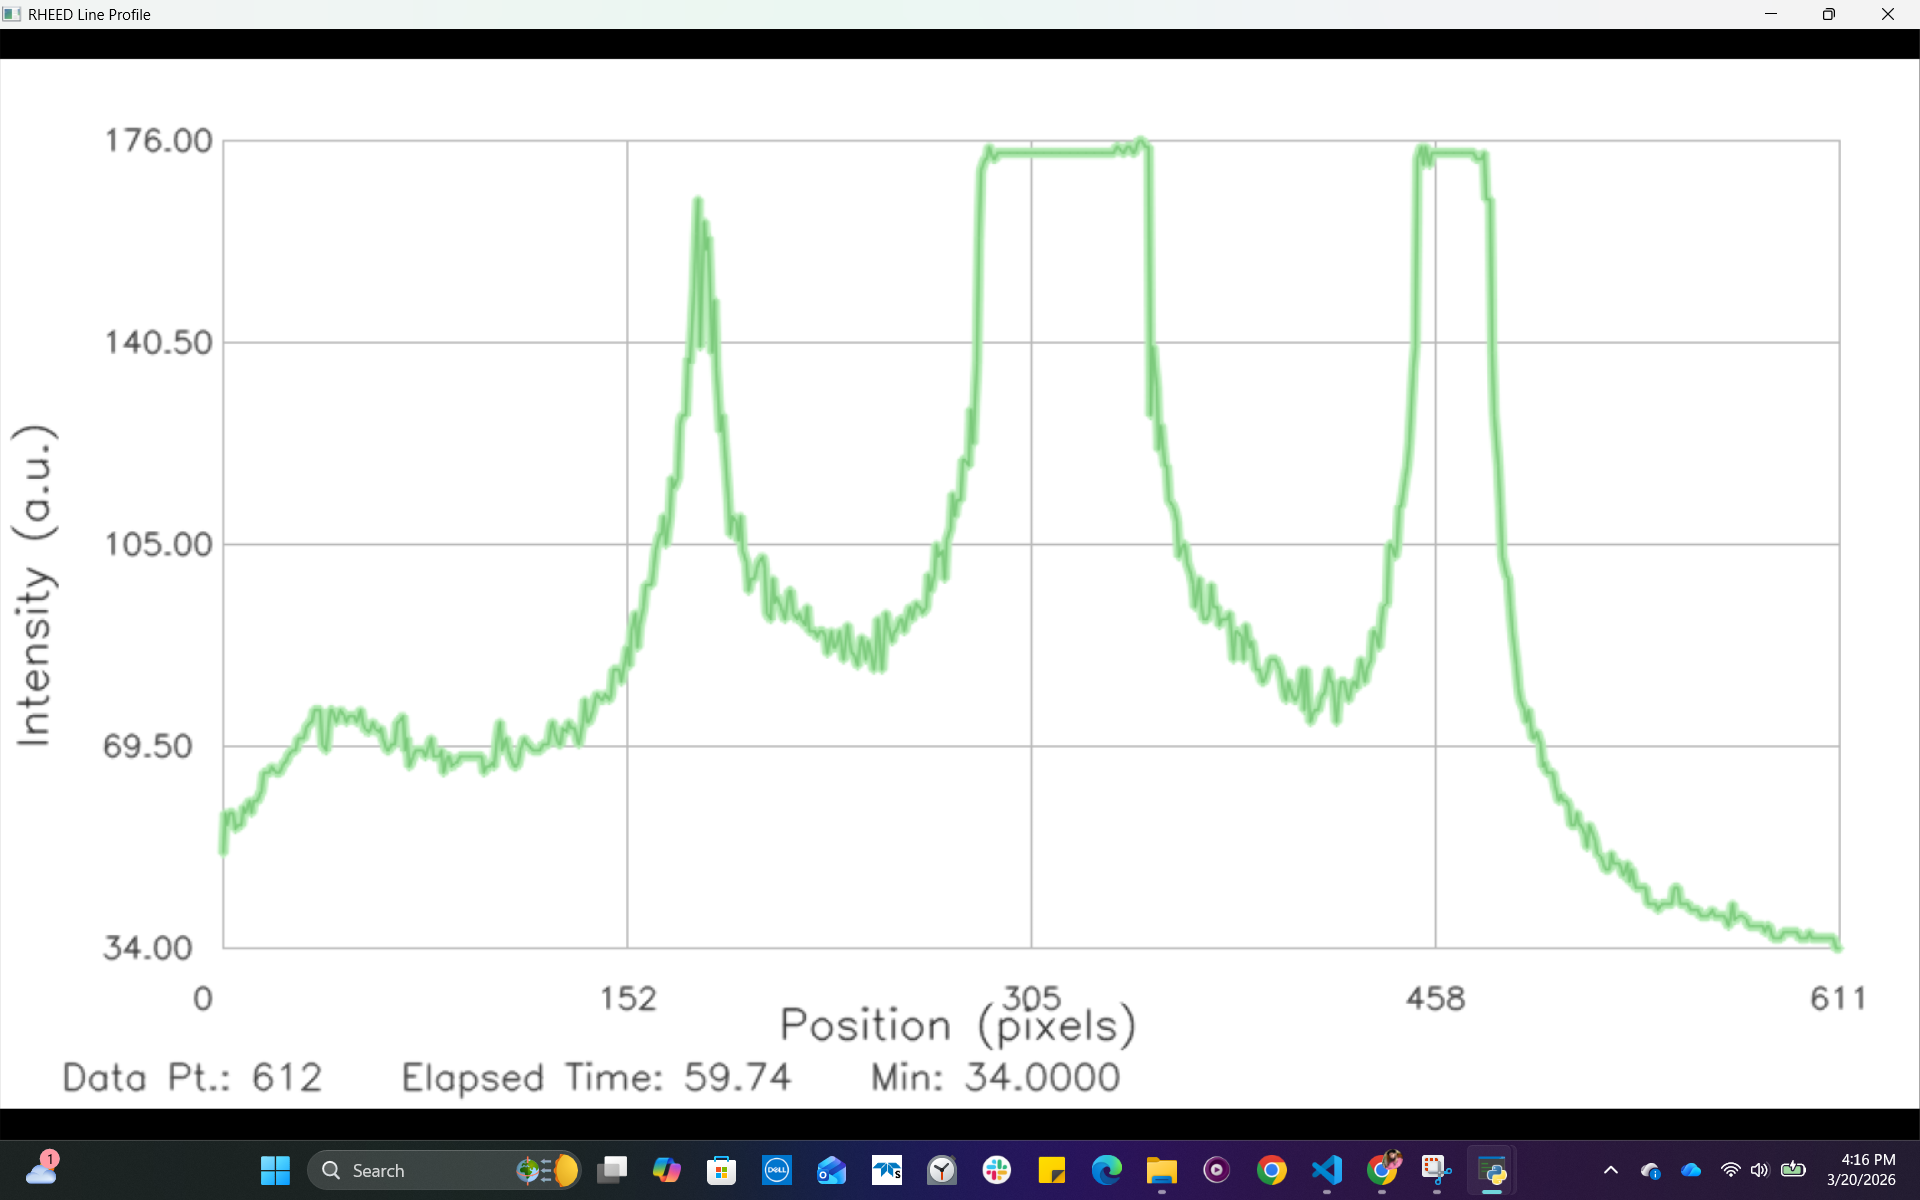
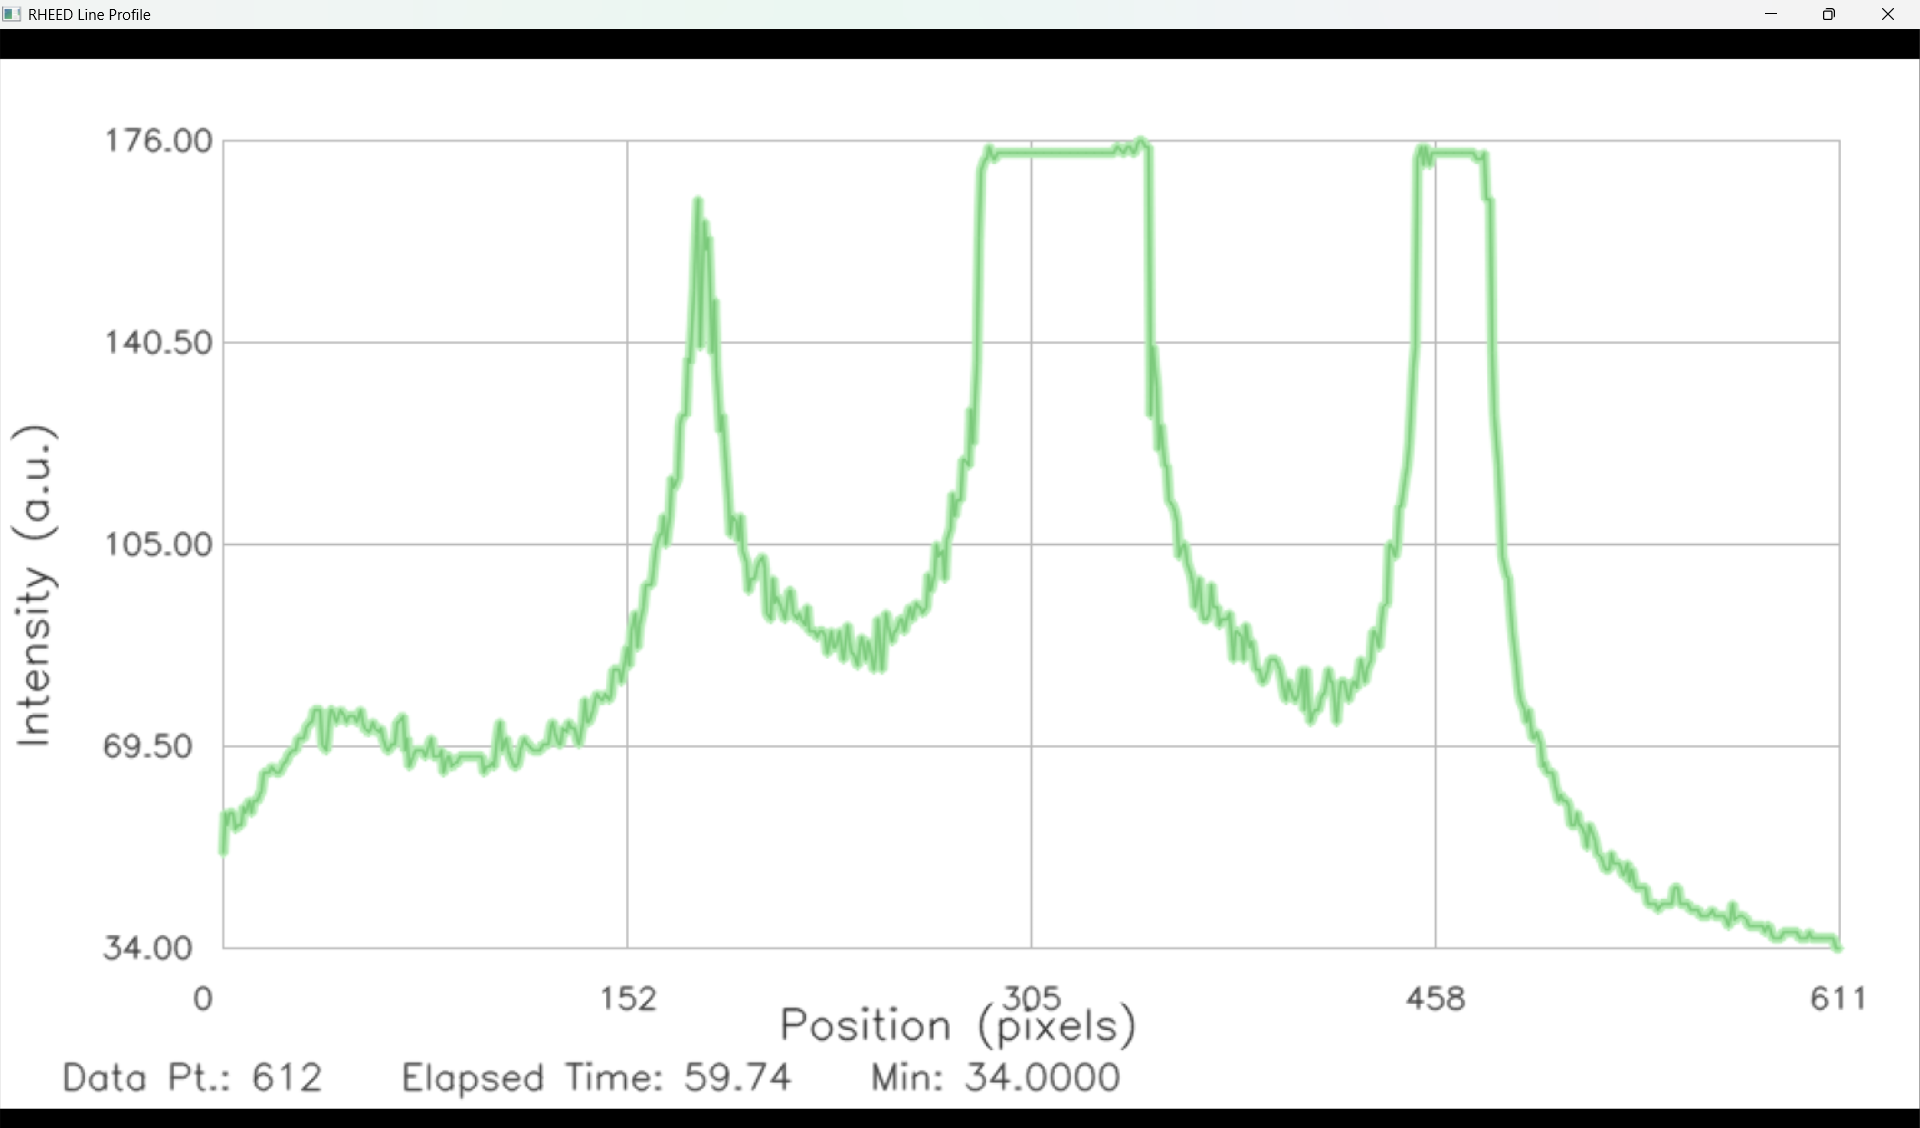
Update README and dashboard images

diff --git a/README.md b/README.md
@@ -126,7 +126,7 @@ Popout ROI monitor displaying time-series intensity trends for up to six ROIs, w
 ---
 
 ## 🏗 Current Project Structure
-
+---
 RHEED-ML-PIPELINE-FINAL/
 │
 ├── main.py
